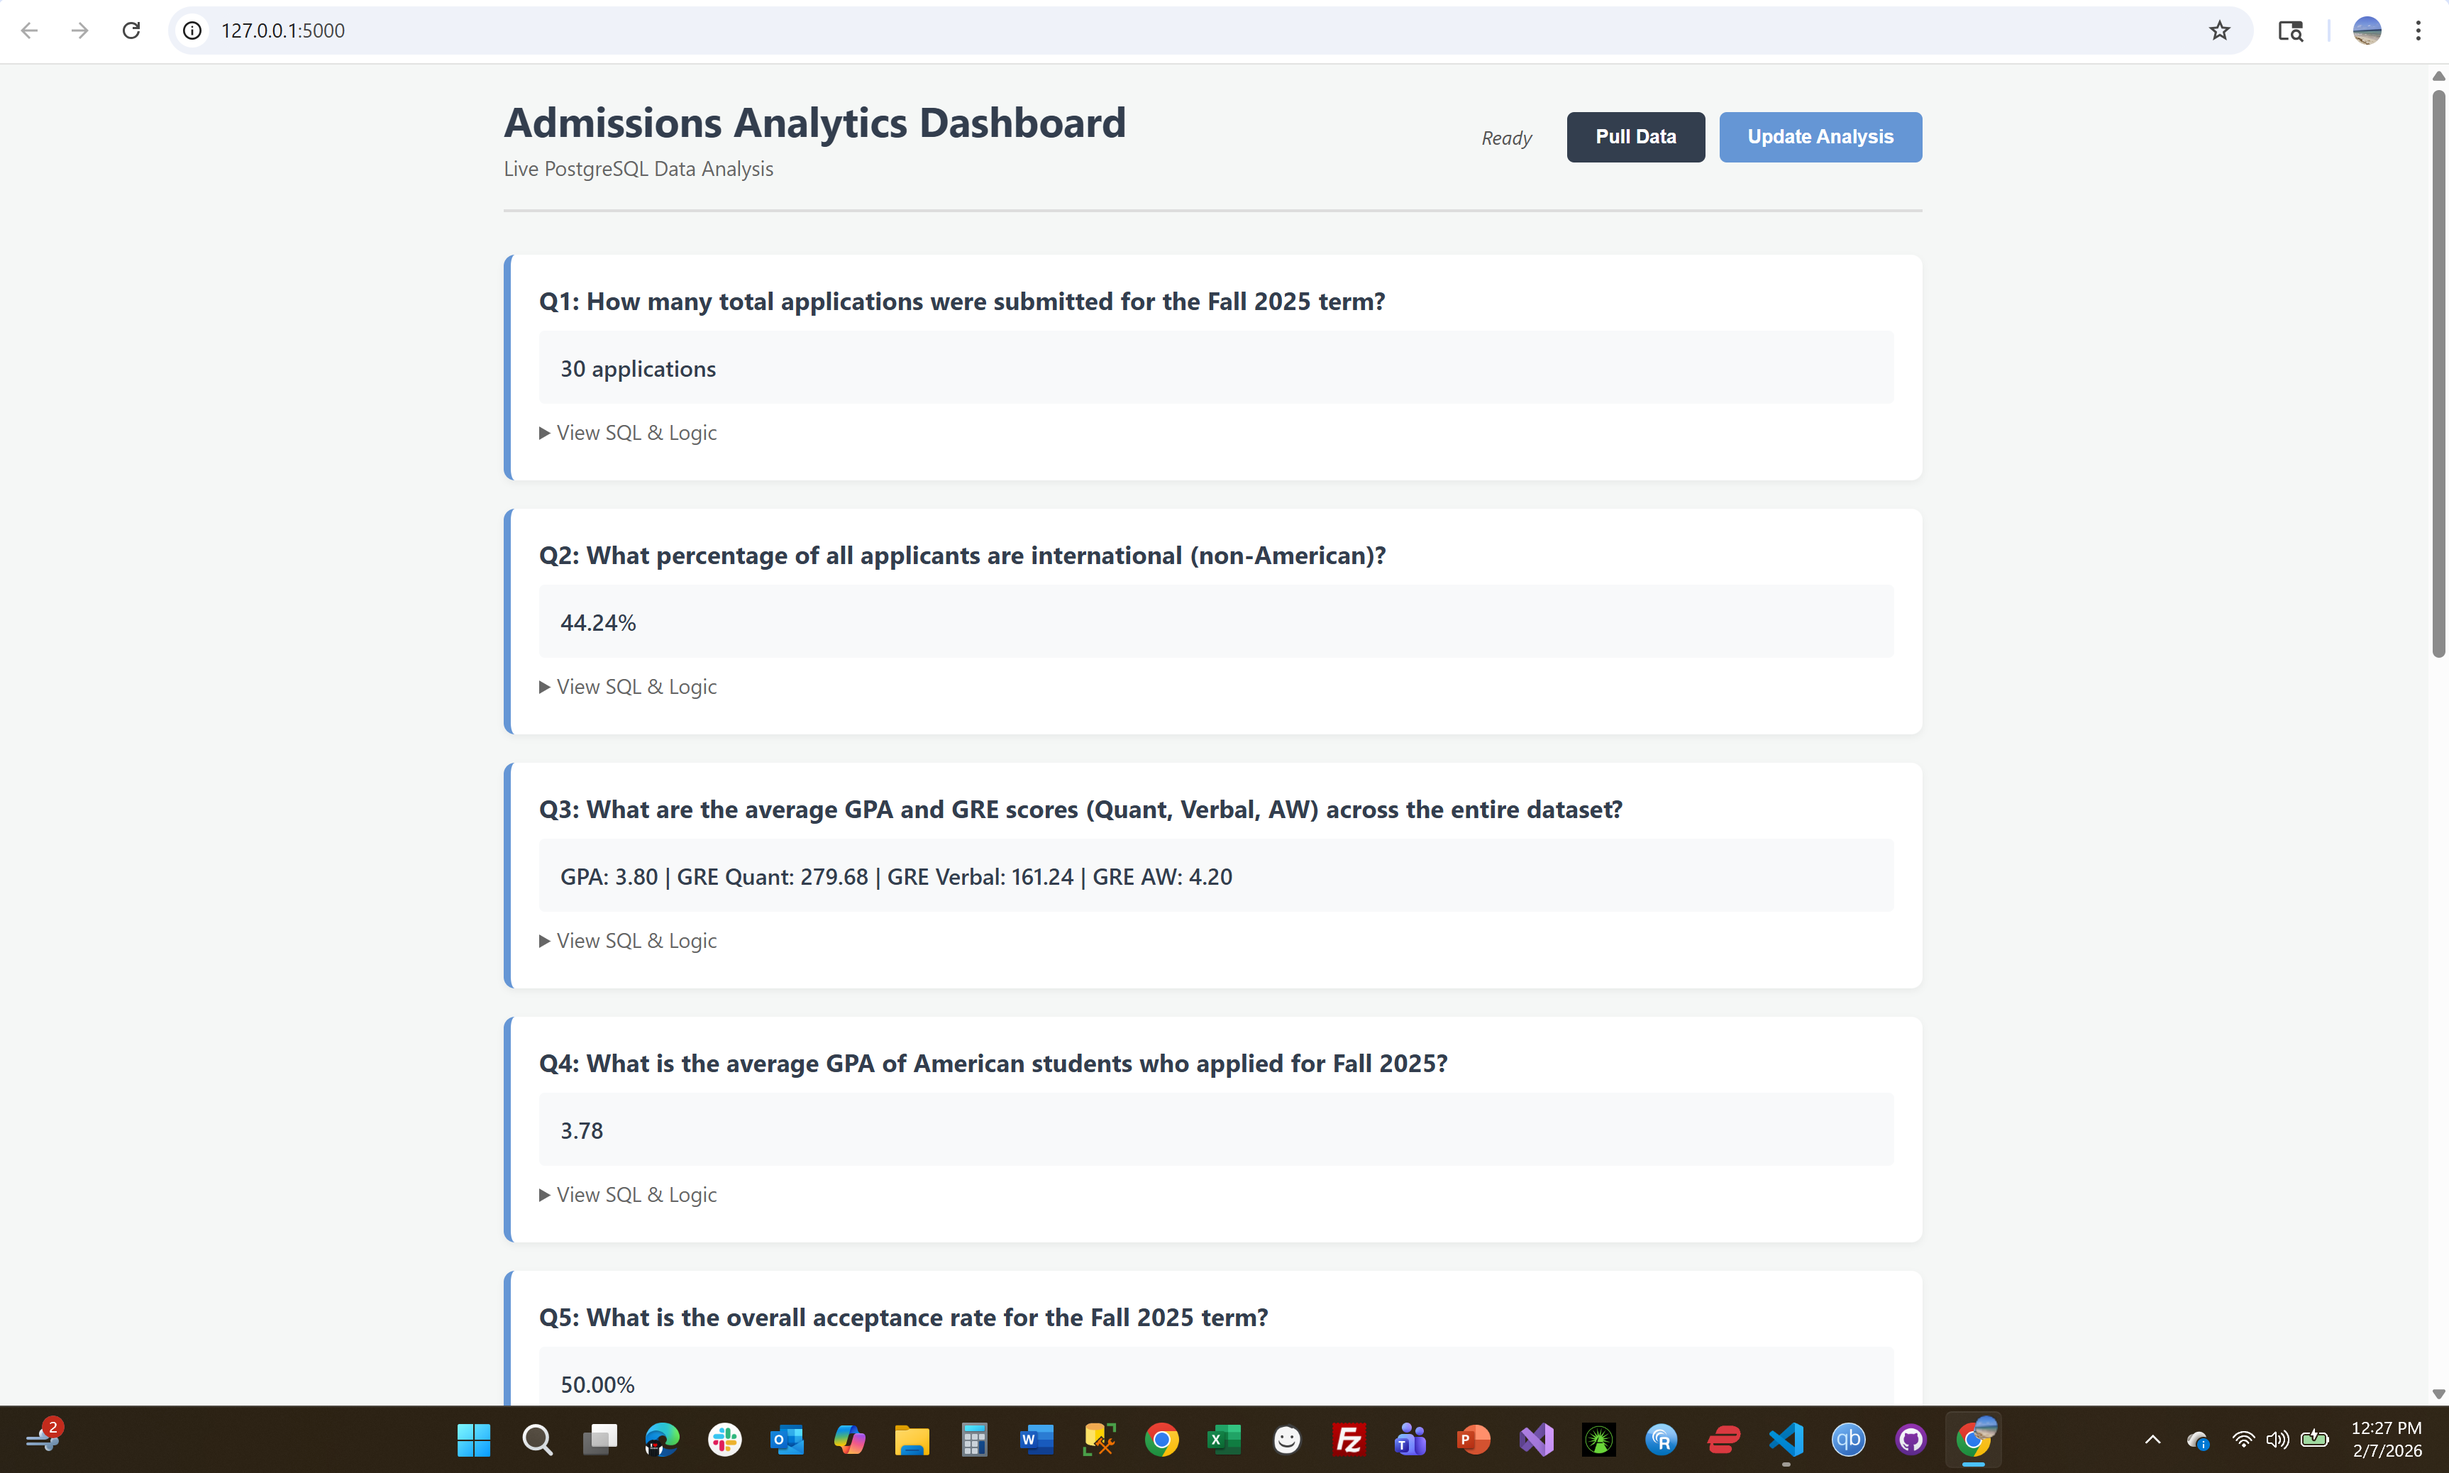
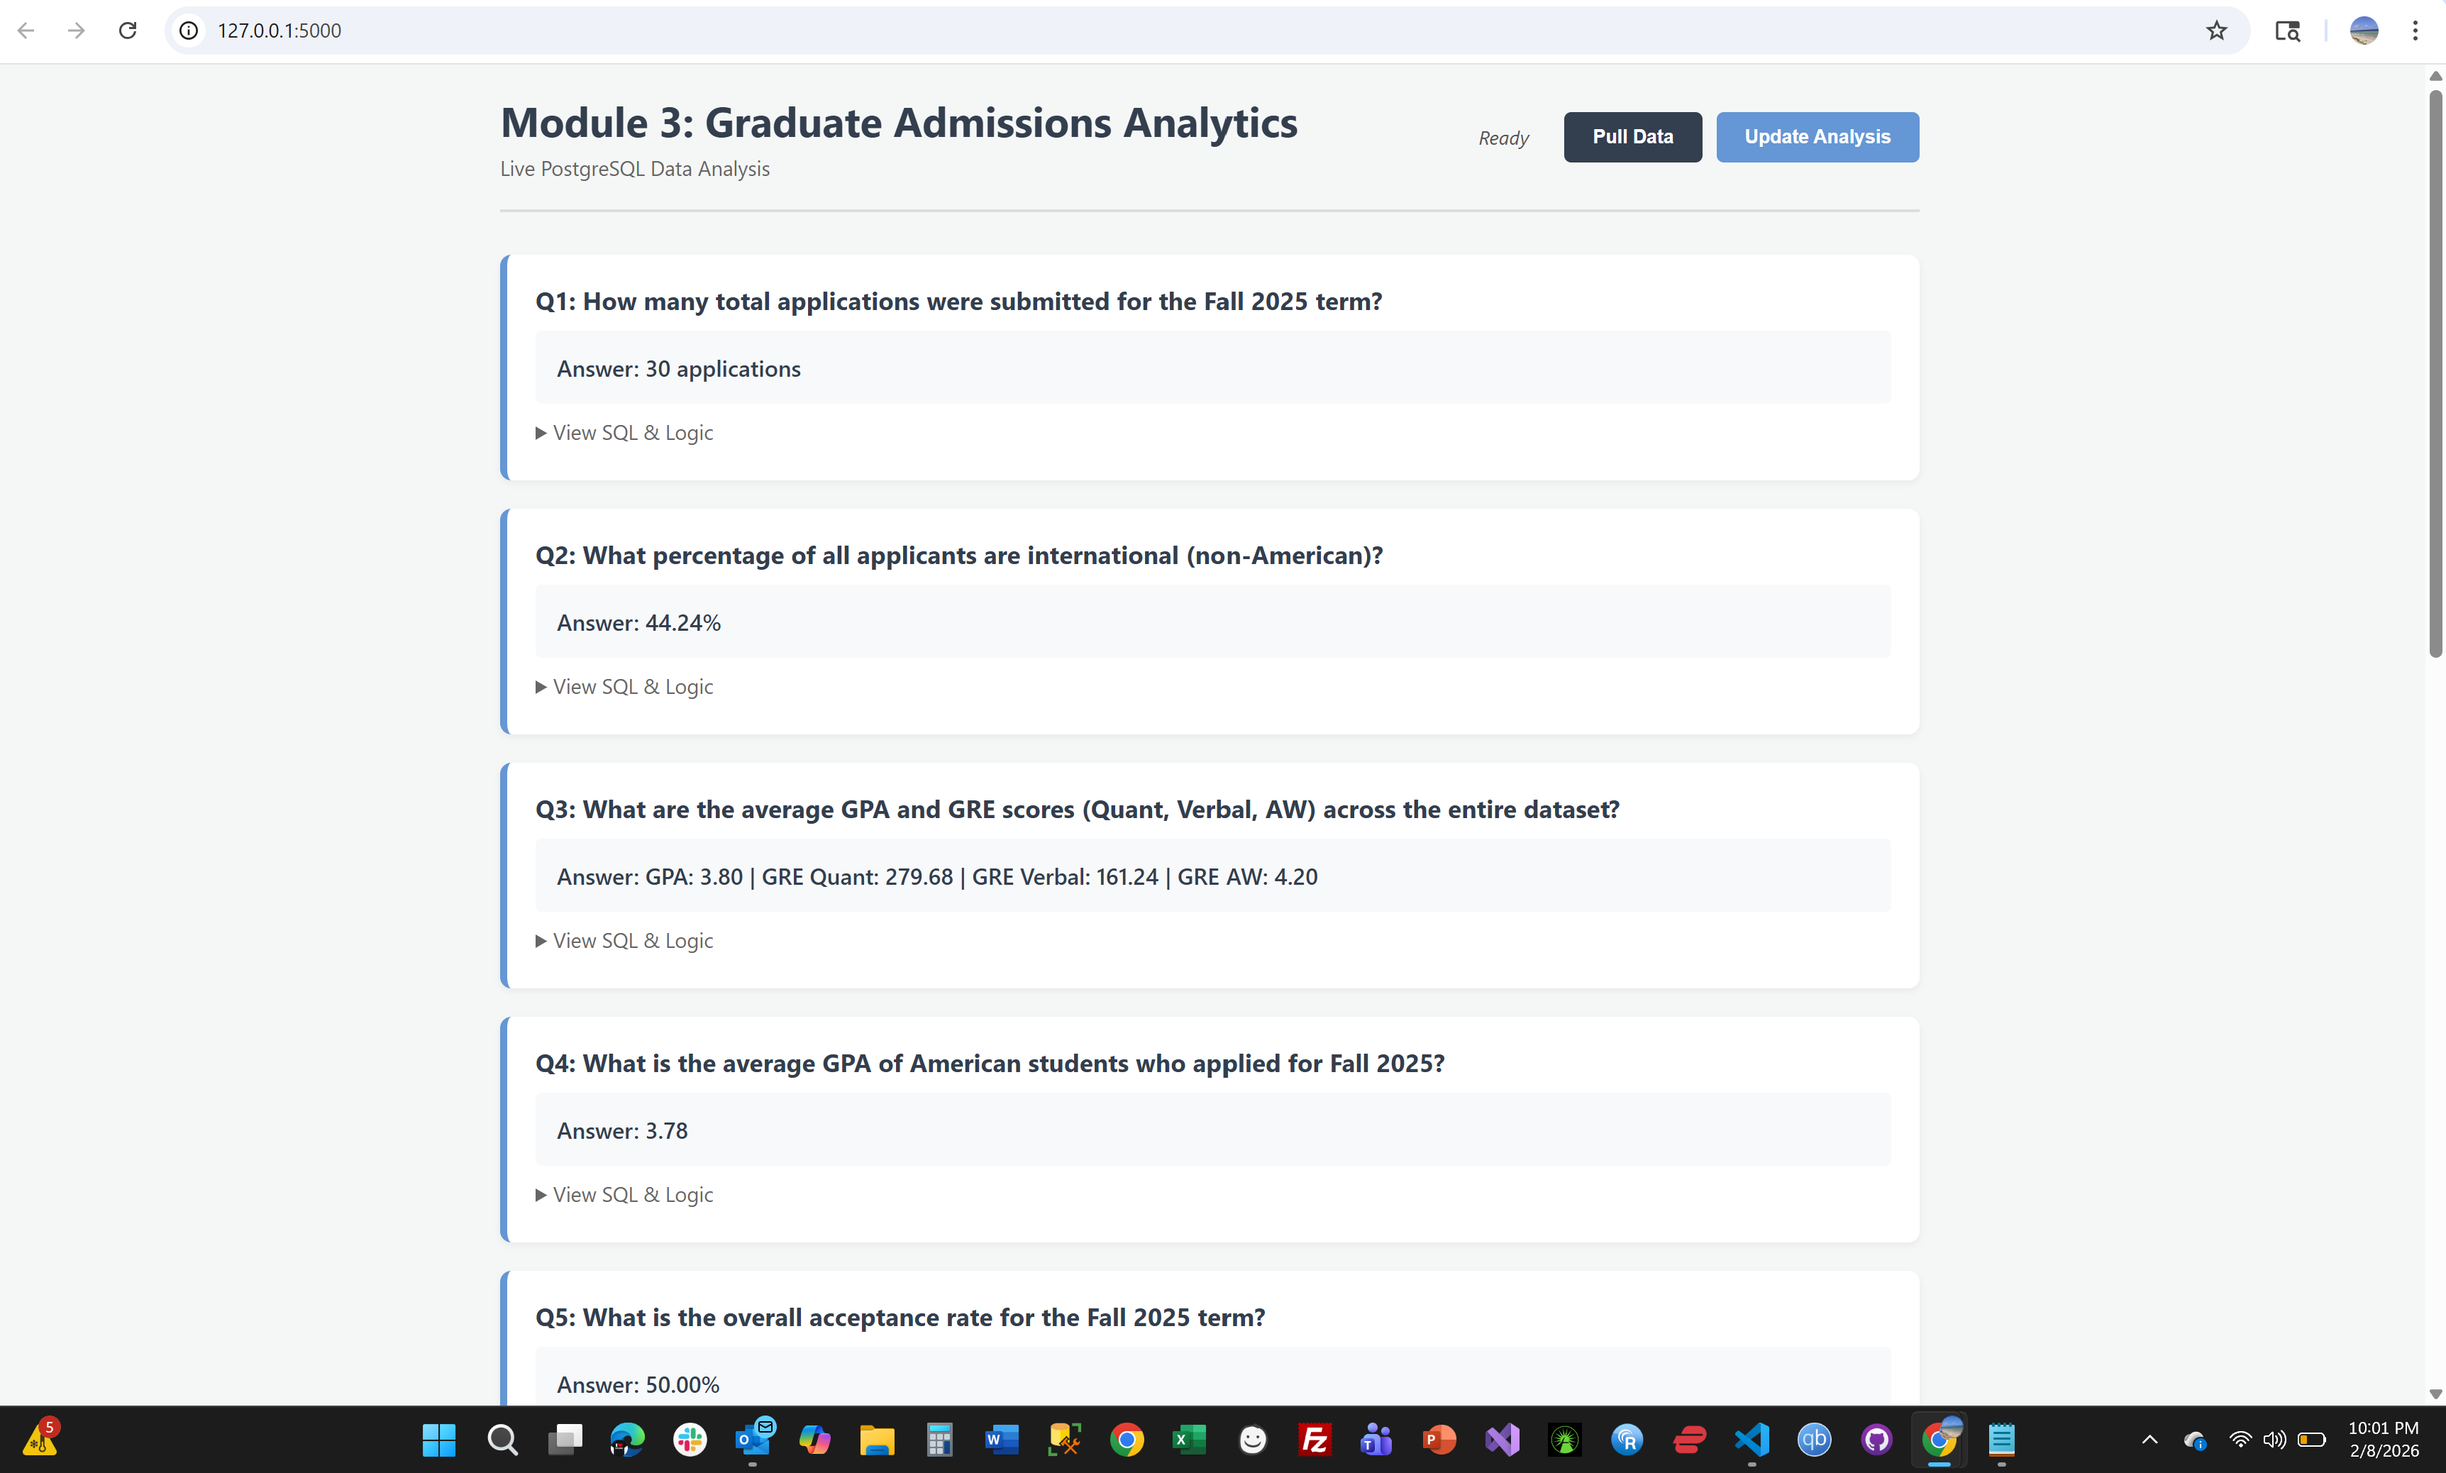
Finalize Module 3 submission

diff --git a/module_3/templates/analysis.html b/module_3/templates/analysis.html
@@ -11,7 +11,7 @@
 <div class="container">
     <header>
         <div>
-            <h1>Admissions Analytics Dashboard</h1>
+            <h1>Module 3: Graduate Admissions Analytics</h1>
             <div class="subtitle">Live PostgreSQL Data Analysis</div>
         </div>
         
@@ -34,13 +34,13 @@
             <div class="question">Q{{ loop.index }}: {{ item.question }}</div>
             
             <div class="answer-box">
-                {{ item.answer }}
+                Answer: {{ item.answer }}
             </div>
 
             <details>
                 <summary>View SQL & Logic</summary>
                 <div class="logic-text"><strong>Logic:</strong> {{ item.explanation }}</div>
-                <code>{{ item.sql }}</code>
+                <div class="sql-code">{{ item.sql }}</div>
             </details>
         </div>
         {% endfor %}
@@ -48,28 +48,31 @@
 </div>
 
 <script>
-    // --- Frontend Logic ---
+    const btnPull = document.getElementById('btnPull');
+    const btnUpdate = document.getElementById('btnUpdate');
+    const statusSpan = document.getElementById('status-display');
+
+    // If server says we are pulling, disable buttons immediately
+    const isPulling = {{ 'true' if is_pulling else 'false' }};
+    if (isPulling) {
+        btnPull.disabled = true;
+        btnUpdate.disabled = true;
+        pollStatus();
+    }
 
     async function startPull() {
-        const btnPull = document.getElementById('btnPull');
-        const btnUpdate = document.getElementById('btnUpdate');
-        const statusSpan = document.getElementById('status-display');
-
-        // UI Updates
         btnPull.disabled = true;
-        btnUpdate.disabled = true; // Constraint: Disable update while pulling
-        statusSpan.innerText = "Requesting scrape job...";
-
+        btnUpdate.disabled = true;
+        statusSpan.innerText = "Requesting pull...";
+        
         try {
-            // We request a reset=1 to ensure the table matches our specific schema
-            const response = await fetch('/pull-data?reset=1', { method: 'POST' });
+            const response = await fetch('/pull-data', { method: 'POST' });
             const data = await response.json();
             
             if (response.status === 409) {
-                statusSpan.innerText = "Job already running!";
+                alert("Job already running!");
             } else {
-                statusSpan.innerText = "Job started. Please wait...";
-                // Start polling for status
+                statusSpan.innerText = "Job started...";
                 pollStatus();
             }
         } catch (err) {
@@ -80,11 +83,7 @@
     }
 
     async function updateAnalysis() {
-        const btnUpdate = document.getElementById('btnUpdate');
-        const statusSpan = document.getElementById('status-display');
-
-        // Client-side check
-        if (document.getElementById('btnPull').disabled) {
+        if (btnPull.disabled) {
             alert("Cannot update while Pull Data is running.");
             return;
         }

diff --git a/module_3/query_data.py b/module_3/query_data.py
@@ -31,8 +31,16 @@ def get_analysis() -> List[Dict[str, Any]]:
         "explanation": "Counts all rows where the term starts with 'Fall 2025'."
     })
 
-    # Q2
-    q2_sql = "SELECT ROUND(100.0 * COUNT(*) / (SELECT COUNT(*) FROM applicants), 2) FROM applicants WHERE us_or_international NOT IN ('American', 'Other');"
+ # Q2 (UPDATED FOR SAFETY)
+    q2_sql = """
+        SELECT 
+            CASE 
+                WHEN (SELECT COUNT(*) FROM applicants) = 0 THEN 0
+                ELSE ROUND(100.0 * COUNT(*) / (SELECT COUNT(*) FROM applicants), 2)
+            END
+        FROM applicants 
+        WHERE us_or_international NOT IN ('American', 'Other');
+    """
     rows = q_all(q2_sql)
     ans2 = format_percentage(rows[0][0]) if rows else "0%"
     analysis.append({
@@ -71,8 +79,16 @@ def get_analysis() -> List[Dict[str, Any]]:
         "explanation": "Filters for American students in Fall 2025 and averages their GPA."
     })
 
-    # Q5
-    q5_sql = "SELECT ROUND(100.0 * COUNT(*) / NULLIF((SELECT COUNT(*) FROM applicants WHERE term LIKE 'Fall 2025%'), 0), 2) FROM applicants WHERE status = 'Accepted' AND term LIKE 'Fall 2025%';"
+ # Q5 (UPDATED FOR SAFETY)
+    q5_sql = """
+        SELECT 
+            CASE 
+                WHEN (SELECT COUNT(*) FROM applicants WHERE term LIKE 'Fall 2025%') = 0 THEN 0
+                ELSE ROUND(100.0 * COUNT(*) / (SELECT COUNT(*) FROM applicants WHERE term LIKE 'Fall 2025%'), 2)
+            END
+        FROM applicants 
+        WHERE status = 'Accepted' AND term LIKE 'Fall 2025%';
+    """
     rows = q_all(q5_sql)
     ans5 = format_percentage(rows[0][0]) if rows else "0%"
     analysis.append({
